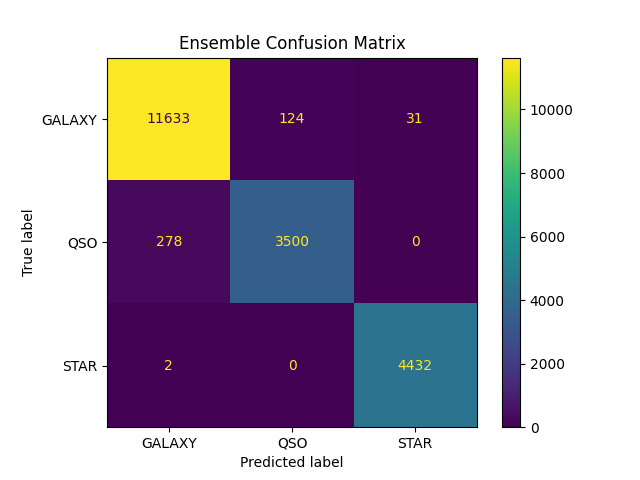
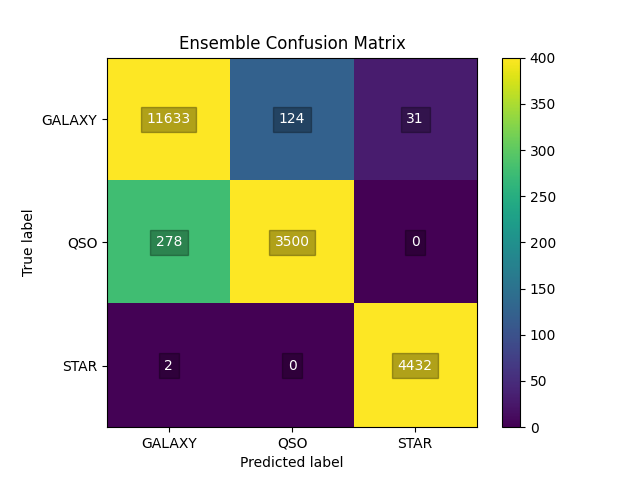
Updated confusion matrix plot

diff --git a/model/util.py b/model/util.py
@@ -15,7 +15,9 @@ def get_metrics(x, y, model):
     yHat = model.predict(x)
     fig, ax = plt.subplots()
     ax.set(title=model.__class__.__name__ + " Confusion Matrix")
-    ConfusionMatrixDisplay.from_predictions(y, yHat, ax=ax)
+    ConfusionMatrixDisplay.from_predictions(y, yHat, ax=ax,
+                                            im_kw={'vmin': 0, 'vmax': 400},
+                                            text_kw={'c': 'w', 'bbox': dict(facecolor='black', alpha=0.3)})
     plt.show()
     return {
         'accuracy': accuracy_score(y, yHat),
@@ -27,7 +29,9 @@ def get_metrics_from_prediction(y, yHat, model):
     # Return accuracy and confusion matrix along with plot of the matrix
     fig, ax = plt.subplots()
     ax.set(title=model + " Confusion Matrix")
-    ConfusionMatrixDisplay.from_predictions(y, yHat, ax=ax)
+    ConfusionMatrixDisplay.from_predictions(y, yHat, ax=ax,
+                                            im_kw={'vmin': 0, 'vmax': 400},
+                                            text_kw={'c': 'w', 'bbox': dict(facecolor='black', alpha=0.3)})
     plt.show()
     return {
         'accuracy': accuracy_score(y, yHat),
